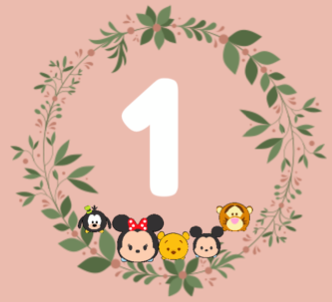
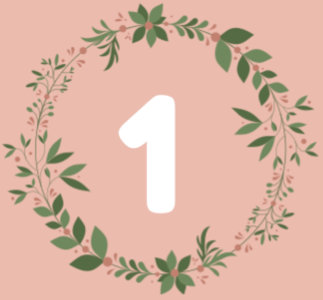
(imp) make tsum2 dance

diff --git a/components/invitation/index.js b/components/invitation/index.js
@@ -5,6 +5,7 @@ import './style.scss'
 class Invitation extends React.Component {
 
   photos = ['may1.jpeg', 'may2.jpeg', 'may3.jpeg', 'may4.jpeg']
+  tsum2s = ['eeyore', 'daisy', 'tigger', 'stitch', 'cinderella', 'mickey']
   reactSwipeEl = null
 
   constructor(props) {
@@ -22,6 +23,21 @@ class Invitation extends React.Component {
     })
   }
 
+
+
+  randomAnimation () {
+    const animation = [
+      'bounce',
+      'rubberBand',
+      'shake',
+      'wobble',
+      'tada',
+      'swing'
+    ]
+    const randomIndex = Math.round(Math.random()*animation.length)
+    return animation[randomIndex]
+  }
+
   render () {
     return <div className="container-fluid invitation-wrapper pt-3 pb-3">
       <div className="container">
@@ -31,6 +47,13 @@ class Invitation extends React.Component {
             <h1>Maydelyn is Turning</h1>
             <div>
               <img className="w-100" src="/static/turn-to-1.png" />
+              <div className="tsum2 row">
+              { this.tsum2s.map((tsum2) => {
+                return <div className={`col h-100 animated infinite ${this.randomAnimation()}`}>
+                  <img src={`/static/tsum2-${tsum2}.png`} />
+                </div>
+              })}
+              </div>
             </div>
           </div>
         </div>

diff --git a/components/invitation/style.scss b/components/invitation/style.scss
@@ -3,6 +3,20 @@
     background-color: #ebbbae;    
   }
 
+  .intro {
+    position: relative;
+
+    .tsum2 {
+      position: absolute;
+      bottom: 0;
+      left: 0;
+
+      img {
+        width: 100%;
+      }
+    }
+  }
+
   .photos {
     position: relative;
     margin-left: 25%;
